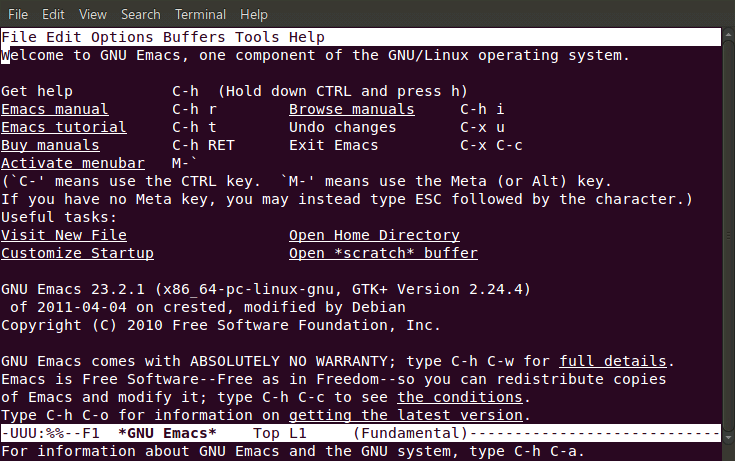
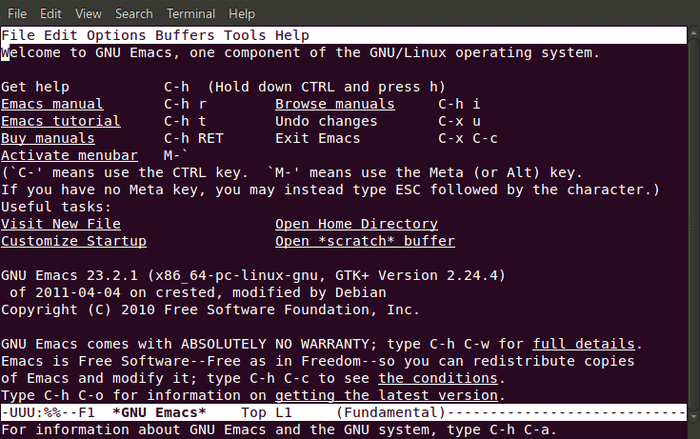
am i to aesthetic?

diff --git a/html/css/chap.css b/html/css/chap.css
@@ -52,7 +52,7 @@ body {
 #main {
   padding: 5px 15px 15px 15px;
   margin: 0 auto;
-  width: 670px;
+  width: 700px;
   border-radius: 8px;
   -moz-border-radius: 8px;
   -webkit-border-radius: 8px;

diff --git a/script/snap.py b/script/snap.py
@@ -6,6 +6,7 @@ import time
 import optparse
 import commands
 import subprocess
+import Image
 
 def dbg(msg):
     print msg
@@ -53,6 +54,19 @@ def send_type(res, keys):
 def snapshot(res, img):
     sh("import -w %s %s" % (res, img))
 
+def cal_img_size(img, size):
+    # case 1) fit into one screen
+    if "full" == opts.image:
+        if img.size[0] > 700.0:
+            factor = 700.0 / img.size[0]
+        rtn = [int(x*factor) for x in img.size]
+    # user explictly specify
+    else:
+        rtn = [int(x) for x in opts.image.split("x")]
+
+    print "[!] resizing: img.size %s => %s" % (img.size, rtn)
+    
+    return rtn
 #
 # M-x a C-a abcd RET
 #
@@ -62,11 +76,46 @@ def snapshot(res, img):
 #  RET => Return
 #
 
+# modifier map
+mmap = {
+    "M-" : "alt+"  ,
+    "C-" : "ctrl+" ,
+    "S-" : "super+",
+    "RET": "Return",
+    "\n" : "Return", 
+    " "  : "space", 
+    "?"  : "shift+question", 
+    "!"  : "shift+exclam", 
+    ","  : "comma", 
+    "."  : "period", 
+    ";"  : "shift+semicolon", 
+    ":"  : "shift+colon", 
+    '"'  : "shift+2", 
+    "$"  : "shift+4", 
+    "%"  : "shift+5", 
+    "&"  : "shift+6", 
+    "/"  : "shift+7", 
+    "("  : "shift+8", 
+    ")"  : "shift+9", 
+    "="  : "shift+0", 
+    "^"  : "dead_circumflex+dead_circumflex", 
+    "*"  : "shift+asterisk", 
+    "#"  : "numbersign", 
+    "'"  : "shift+apostrophe", 
+    "-"  : "minus", 
+    "_"  : "shift+underscore", 
+    "<"  : "less", 
+    ">"  : "shift+greater", 
+    "\t" : "Tab", 
+    "TAB": "Tab", 
+    "\b" : "BackSpace", 
+    }
+
 if __name__ == '__main__':
     # gtk geometry: row x col + x + y
     parser = optparse.OptionParser(__doc__.strip() if __doc__ else "")
     parser.add_option("-s", "--size",
-                      help="image (width x height)", 
+                      help="window size: (width x height)", 
                       dest="size", default=None)
     parser.add_option("-o", "--out",
                       help="output image file", 
@@ -82,47 +131,15 @@ if __name__ == '__main__':
                       dest="exe", default="emacs")
     parser.add_option("-c", "--clean",
                       help="clean emacs", action="store_true",
-                      dest="clean", default=False)    
+                      dest="clean", default=False)
+    parser.add_option("-i", "--image-size",
+                      help="image size",
+                      dest="image", default="full")
     # XXX. implement later
     parser.add_option("-r", "--restart",
                       help="force restart", action="store_true",
                       dest="restart", default=False)
     (opts, args) = parser.parse_args()
-
-    # modifier map
-    mmap = {
-        "M-" : "alt+"  ,
-        "C-" : "ctrl+" ,
-        "S-" : "super+",
-        "RET": "Return",
-        "\n" : "Return", 
-        " "  : "space", 
-        "?"  : "shift+question", 
-        "!"  : "shift+exclam", 
-        ","  : "comma", 
-        "."  : "period", 
-        ";"  : "shift+semicolon", 
-        ":"  : "shift+colon", 
-        '"'  : "shift+2", 
-        "$"  : "shift+4", 
-        "%"  : "shift+5", 
-        "&"  : "shift+6", 
-        "/"  : "shift+7", 
-        "("  : "shift+8", 
-        ")"  : "shift+9", 
-        "="  : "shift+0", 
-        "^"  : "dead_circumflex+dead_circumflex", 
-        "*"  : "shift+asterisk", 
-        "#"  : "numbersign", 
-        "'"  : "shift+apostrophe", 
-        "-"  : "minus", 
-        "_"  : "shift+underscore", 
-        "<"  : "less", 
-        ">"  : "shift+greater", 
-        "\t" : "Tab", 
-        "TAB": "Tab", 
-        "\b" : "BackSpace", 
-        }
 
     cmdargs = opts.args.split()
     if opts.size:
@@ -151,9 +168,11 @@ if __name__ == '__main__':
     snapshot(res, opts.out)
     proc.kill()
 
-    # resizing
-    # img = Image.open(filename).resize( (400,400) )
-    # img = img.resize( (200,200), Image.ANTIALIAS)
-
+    # image size
+    if opts.image:
+        img = Image.open(opts.out)
+        img = img.resize(cal_img_size(img, opts.image), Image.ANTIALIAS)
+        img.save(opts.out)
+        
     if not opts.batch:
         os.system("DISPLAY=:0 gnome-open %s" % opts.out)

diff --git a/chap1/doc.md b/chap1/doc.md
@@ -69,7 +69,7 @@ emacs-goodies-el
 
     $ emacs
 
-![\n{img} 이멕스 GUI](\s{snap -s 80x25 -c -o emacs-gui-init.png})
+![\n{img} 이멕스 GUI](\s{snap -s 80x33 -c -o emacs-gui-init.png})
 
 실행된 GUI 버전의 이멕스를 종료하기전에 \m{File->Quit} 메뉴를 살펴보면 \k{C-x
 C-c:종료}의 단축키가 적혀있는걸 볼 수 있다. 이멕스에서는 단축키를 아래와 같은 규칙을
